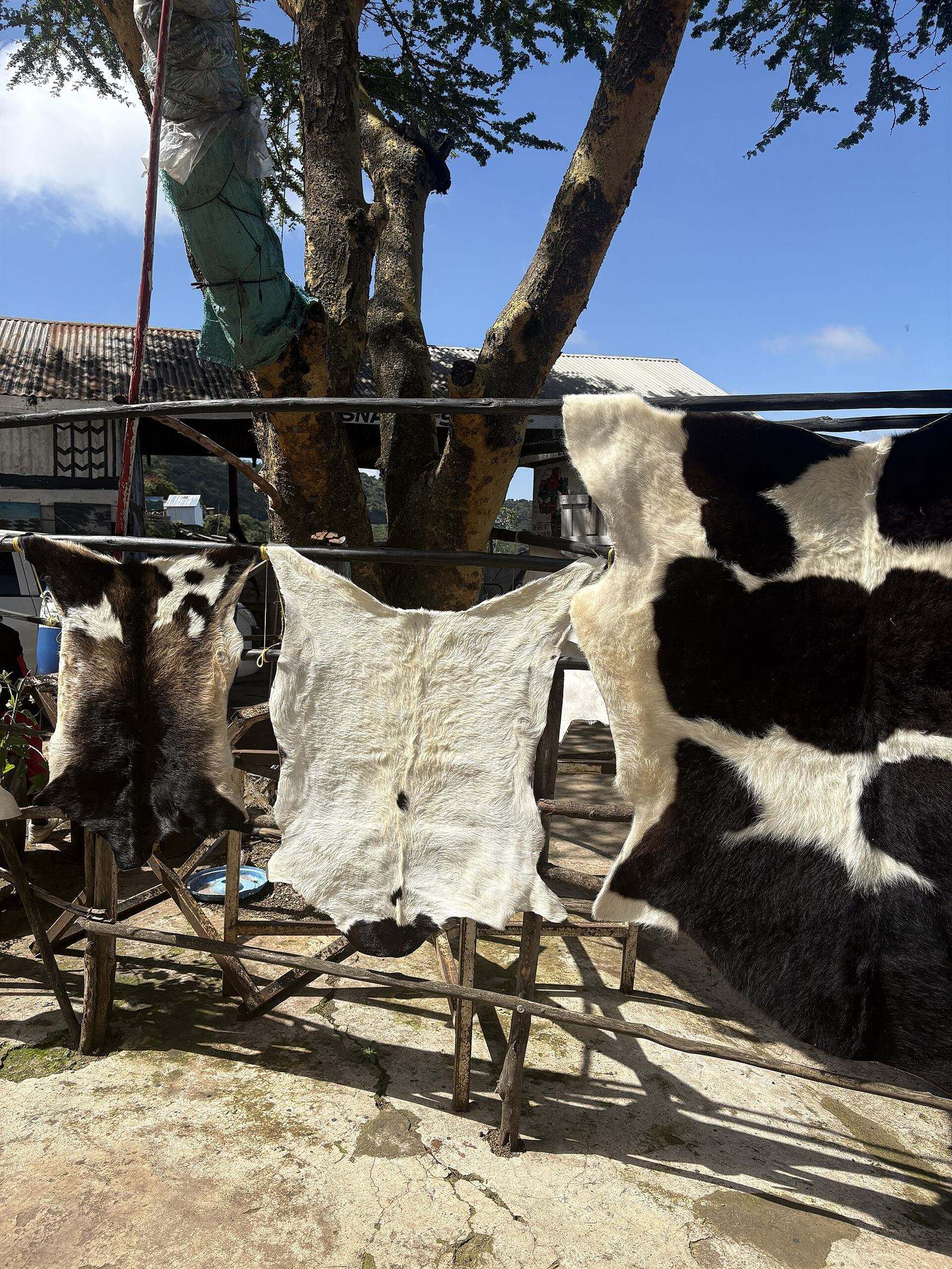
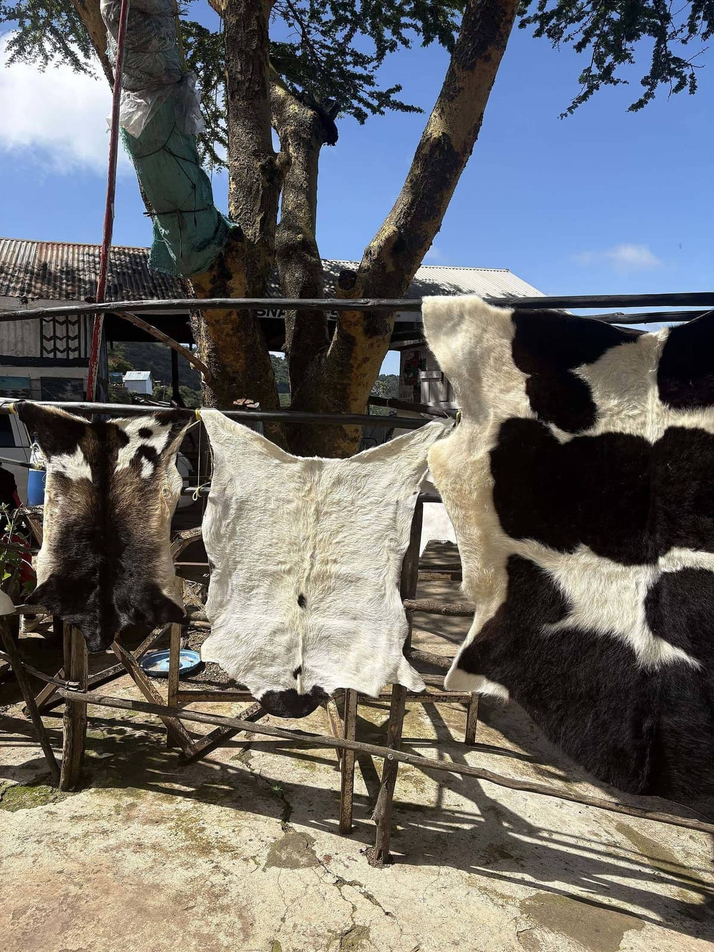
perf(hero): shrink hero images and preload the next slide
- Re-encoded all four hero photos with sharp-cli (1.75 MB -> 835 KB)
- First two slides load eagerly, first slide at high fetch priority
- Preload the next slide on every index change so the carousel never
  reaches a slide whose image is still downloading
- Added width/height and async decoding to avoid layout shift

diff --git a/app/src/sections/Hero.tsx b/app/src/sections/Hero.tsx
@@ -106,6 +106,14 @@ export default function Hero() {
     return () => window.clearInterval(timer);
   }, [isPlaying]);
 
+  // Preload the next slide so it is ready before the carousel reaches it.
+  useEffect(() => {
+    const next = slides[(index + 1) % slides.length];
+    const preloader = new Image();
+    preloader.src = next.src;
+    preloader.decoding = 'async';
+  }, [index]);
+
   const activeSlide = slides[index];
 
   return (
@@ -134,7 +142,11 @@ export default function Hero() {
                 src={slide.src}
                 alt={isActive ? slide.alt : ''}
                 className="h-full w-full object-cover"
-                loading={slideIndex === 0 ? 'eager' : 'lazy'}
+                width={1920}
+                height={1080}
+                loading={slideIndex <= 1 ? 'eager' : 'lazy'}
+                fetchPriority={slideIndex === 0 ? 'high' : 'low'}
+                decoding="async"
                 initial={false}
                 animate={{
                   scale: isActive && !prefersReducedMotion ? 1.06 : 1,

diff --git a/app/README.md b/app/README.md
@@ -60,6 +60,16 @@ Free, commercially usable images of the traded forms (verified as of this writin
 Note: the Maroua tannery set on Commons (CC0) mixes sheep, crocodile and varan (monitor lizard)
 skins — avoid the "varan" and "crocodile" files when picking product photography.
 
+Hero images are re-encoded for the web with `sharp-cli` so the carousel never shows a blank
+slide:
+
+```powershell
+npx sharp-cli -i app/public/images/hero/hides-kenya.jpg -o out.jpg resize 1200 --mozjpeg -q 68
+```
+
+Keep each hero file under ~300 KB. The first two slides load eagerly (the first at high
+fetch priority) and `Hero.tsx` preloads the next slide whenever the active slide changes.
+
 Paid stock alternatives if Dijon Prime wants guaranteed subject-accurate photography:
 [Shutterstock — wet blue leather](https://www.shutterstock.com/search/wet-blue-leather),
 [Alamy — wet blue hides](https://www.alamy.com/search.html?qt=wet%20blue%20hides),
